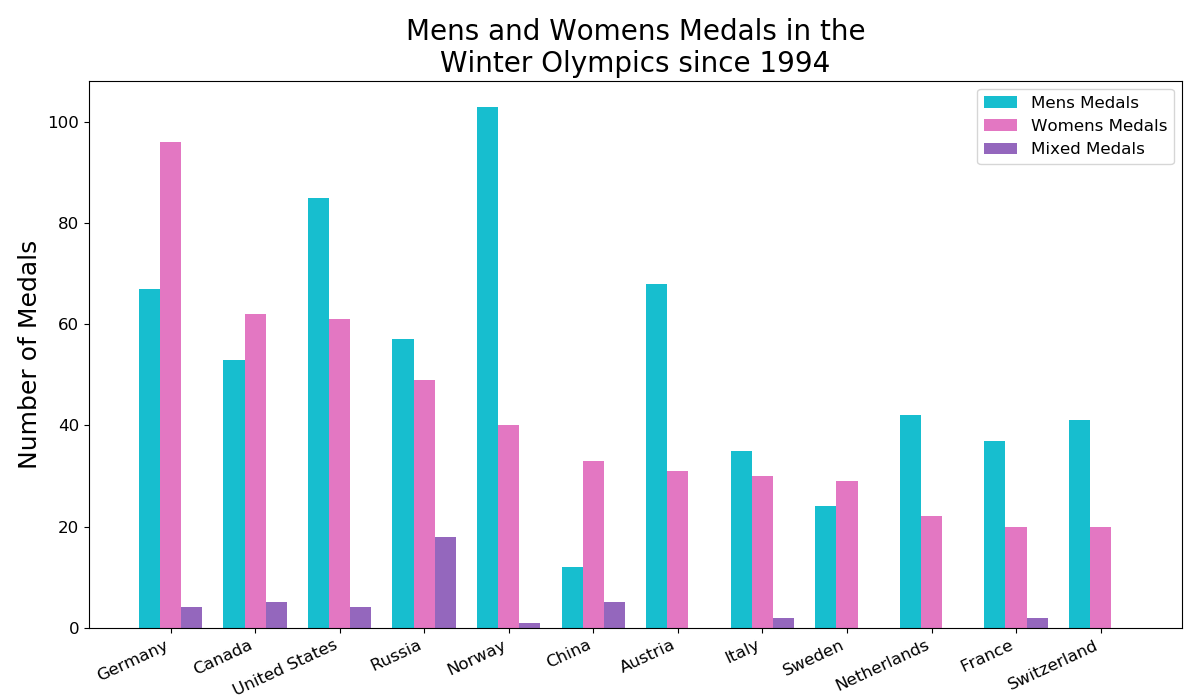
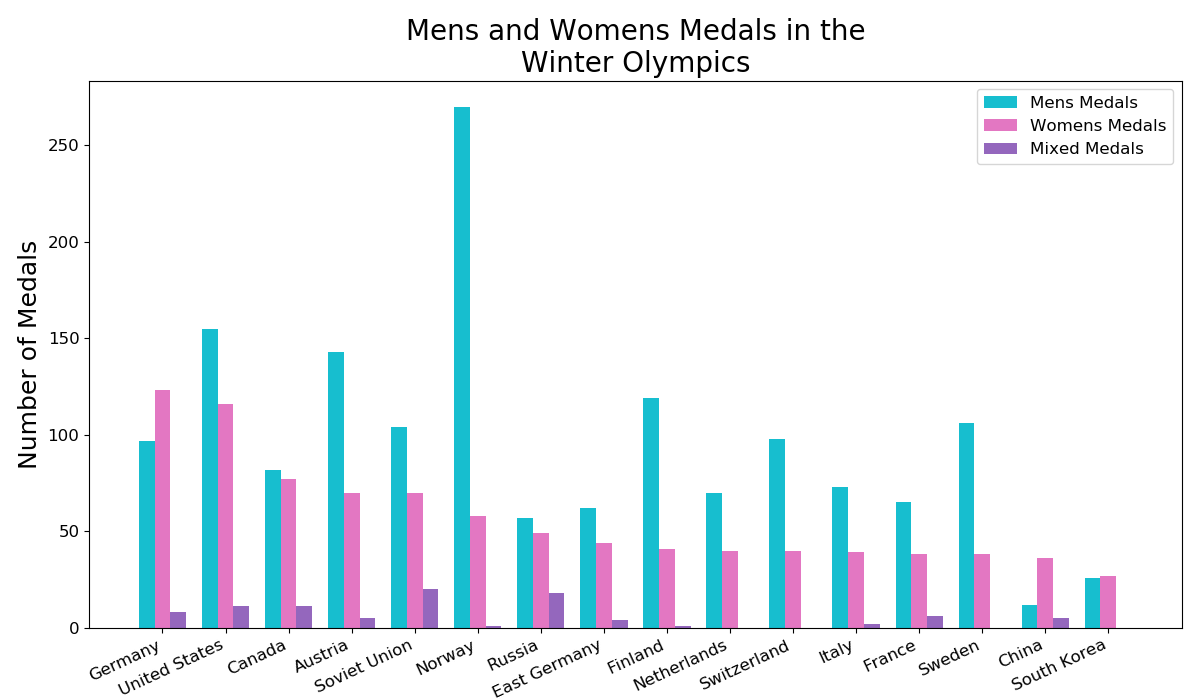
fix typos and plot titles

diff --git a/src/winter_medals.py b/src/winter_medals.py
@@ -65,11 +65,11 @@ class GenderDataFrames(object):
         self.athlete_df = None
         self.annual_medals_df = self.create_year_df(ignore_mixed=True)
         self.annual_medals_mixed_df = self.create_year_df(ignore_mixed=False)
-        self.country_medals_df = self.create_country_df(min_year=1994,
+        self.country_medals_df = self.create_country_df(min_year=0,
                                                         min_medals=50,
                                                         ignore_mixed=True)
         self.country_medals_mixed_df =\
-            self.create_country_df(min_year=1994, min_medals=50,
+            self.create_country_df(min_year=0, min_medals=50,
                                    ignore_mixed=False)
 
     def create_df(self):
@@ -289,7 +289,8 @@ if __name__ == '__main__':
     make_all_plots(all_olympics_dataframes, False)
     medals_plots.plot_bar_year_overlay(all_olympics_dataframes,
                                        winter_dataframes, False)
-    medals_plots.plot_bar_country(winter_dataframes, False)
+    medals_plots.plot_bar_country(winter_dataframes, True)
+    medals_plots.plot_bar_year_dual(winter_dataframes, save_on=False)
 
     female_indicator_codes = [23906, 24106, 48706, 120606,
                               123306, 123506, 136906, 169706, 169806,
@@ -311,11 +312,13 @@ if __name__ == '__main__':
     medals_plots.plot_hdi_corrs(hdi_list, all_olympics_corr, labels_dict,
                                 'all', corr_ax, save_on=False)
 
+    print(winter_olympics_hdi[[169706, 'winter_medals_%_women']])
+
     x = all_olympics_hdi['all_medals_%_women']
     y = all_olympics_hdi[169706]
     label_list = ['Unemployment F:M', '% Womens Olympic Medals']
     medals_plots.scatter_corr(x, y, label_list,
                               save_as='../images/all/Unemp-scatter.png',
-                              save_on=True)
+                              save_on=False)
     plt.show()
     print(stats.pearsonr(x, y))

diff --git a/src/medals_plots.py b/src/medals_plots.py
@@ -66,7 +66,7 @@ def gender_counts_plot(x, y, labels, ax=None, **plt_kwargs):
         fig, ax = plt.subplots(1, figsize=(12, 7))
     ax.bar(x, y, **plt_kwargs)
     ax.set_title(f'Mens and Womens {labels[1]} in' +
-                 f' the\nWinter Olympics since 1994', fontsize=20)
+                 f' the\nWinter Olympics', fontsize=20)
     ax.set_xlabel(labels[2], fontsize=18)
     ax.set_ylabel(f'Number of {labels[1]}', fontsize=18)
     ax.legend()

diff --git a/README.md b/README.md
@@ -1,10 +1,21 @@
 # Women in the Winter Olympics
+
+![img](images/title.jpg)
+
+## Table of Contents
+1. [History](#history)
+2. [Data](#data)
+3. [Winter Olympics Gender Equlaity](#winter-olympics-gender-equality)
+4. [Human Development Index Correlation](#human-development-index-correleation)
+5. [Further Analysis](#further-analysis:-correlations-to-all-olympic-games)
+6. [Future Work](#future-work)
+
 ## History
 When the olympic games were originally founded in ancient Greece there were no female participants. The first modern olympic games, held in 1896, were also exclusively for men. However, the very next olympics included women's events in both tennis and golf. 
 
 In 1924 the International Olympic Committee added a winter sports week to the olympic competition and this event became the first Winter Olympic Games. Women's events were included in the Winter Games from the beginning, with figure skating including both a women's and a pair skate. Women's participation continued to grow until in 2010 there were only three countries that had never sent a female athlete to the games and in the 2012 London Games every competing country sent at least one female athlete.
 
-By evaluating women's events in the olympics over time I hope to discern if any major historical moments correspond to increases in women's events. I also hope to discover a correlation between a country's human development index gender specific indicators and that country's women's event medals.
+By evaluating women's events in the olympics over time I hope to discern if any major historical moments coincide with increases in women's events. I also hope to discover a correlation between a country's human development index gender specific indicators and that country's women's event medals.
 
 ## Data
 **Winter Olympic Medals**
@@ -54,13 +65,13 @@ The largest spike in the percent of events including women occurred in 1960 with
 
 ![img](images/winter/no-mix-country-plot-1993.png)
 
-This plot was abbreviated to only include countries with at least 50 medals since 1924. The dominace of Norway in men's events is clearly evident. It is also interesting to note the Germans are the only competitors to produce more women's event medals than men's events and that Germany has the most medals in women's events, even though this count does not include medals awarded to East Germany or West Germany during the cold war. 
+This plot was abbreviated to only include countries with at least 50 medals since 1994. The dominace of Norway in men's events is clearly evident. It is also interesting to note Germany has the most medals in women's events, even though this count does not include medals awarded to East Germany or West Germany during the cold war. 
 
 ## Human Development Index Correlation
 
 "The Human Development Index (HDI) was created to emphasize that expanding human choices should be the ultimate criteria for assessing development results. Economic growth is a means to that process but is not an end in itself." - [hdr.undp.org](http://hdr.undp.org/en/content/human-development-index-hdi)
 
-HDIs are released by the United Nations Development Programme on a nearly annual basis and include information on a multitude of different human factors. The HDI for the 11 countries with at least 50 medals in the Winter Olympics from 1994 to 2014 were collected from UDNP's Human Development Reports Office profile on [data.world](https://data.world/hdro). Each table was cleaned using a pandas PivotTable. The resulting DataFrame was reduced to only include the indices with the words 'female' or 'women' in the name. A few of these indices were dropped because they did not include data for many of the countries, which left 17 HDI indices. Each of these indices were compared to the percent of medal's won by women in the 11 countries to determine correlations. 
+HDIs are released by the United Nations Development Programme on a nearly annual basis and include information on a multitude of different human factors. The HDI for the 11 countries with at least 50 medals in the Winter Olympics from 1994 to 2014 were collected from UNDP's Human Development Reports Office profile on [data.world](https://data.world/hdro). Each table was cleaned using a pandas PivotTable. The resulting DataFrame was reduced to only include the indices with the words 'female' or 'women' in the name. A few of these indices were dropped because they did not include data for many of the countries, which left 17 HDI indices. Each of these indices were compared to the percent of medal's won by women in the 11 countries to determine correlations. 
 
 
 ![img](images/winter/HDI_correlations.png)
